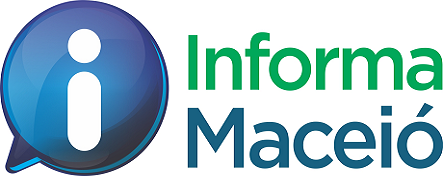
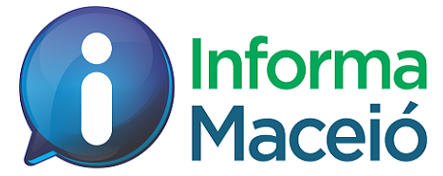
alteraçoes de dimensoes

diff --git a/servicos.html b/servicos.html
@@ -74,11 +74,11 @@
 
     <div class="box-content">
 
-        <div class="row">
+        <div class="row justify-content-center">
     
             <div class="col-3 menu-lateral">
     
-                <div class="nav flex-column nav-pills" id="v-pills-tab" role="tablist" aria-orientation="vertical">
+                <div class="nav nav-pills" id="v-pills-tab" role="tablist" aria-orientation="vertical">
     
                     <button class="nav-link" id="v-pills-planejamento-tab" data-toggle="pill" href="#v-pills-planejamento" role="tab" aria-controls="v-pills-planejamento" aria-selected="true">Planejamento Orçamentário</button>
 
@@ -2229,7 +2229,7 @@
     
                     <div class="tab-pane fade" id="v-pills-perguntas" role="tabpanel" aria-labelledby="v-pills-perguntas-tab">
                         
-                        <!-- <div class="list-group">
+                        <div class="list-group">
                             
                             <div class="list-group-item">
 
@@ -2362,7 +2362,7 @@
                             <div class="list-group-item">
                             </div>
 
-                        </div> -->
+                        </div>
 
                     </div>
     

diff --git a/public/css/style.css b/public/css/style.css
@@ -42,7 +42,7 @@ header .jumbotron {
 }
 
 .logo-maceio {
-    width: 160px;
+    width: 171px;
 }
 
 .titulo-site {
@@ -72,11 +72,15 @@ header .jumbotron {
 }
 
 .box-content {
-    width: 80%;
-    padding: 20px 0 20px 0;
+    width: 90%;
+    padding: 2% 0;
     margin-left: auto;
     margin-right: auto;
     color: #000000;
+}
+
+h3 {
+    margin-bottom: 2% !important;
 }
 
 .conteudo-geral {
@@ -171,14 +175,6 @@ header .jumbotron {
 
 .titulo-sites, .titulo-about, .titulo-talk {
     /*color: #3673ba;*/
-    color: #000000;
-}
-
-.sites-box-content {
-    width: 90%;
-    padding: 20px 0 20px 0;
-    margin-left: auto;
-    margin-right: auto;
     color: #000000;
 }
 
@@ -455,7 +451,7 @@ section .col-md-3:first-child {
 }
 
 #about-section {
-    background: url(../img/04_PontaVerde.jpg) no-repeat center top;
+    background: url(../img/PontaVerde.png) no-repeat center top;
     background-color: #7bc3d1;
     -webkit-background-size: cover;
     -moz-background-size: cover;

diff --git a/index.html b/index.html
@@ -98,7 +98,7 @@
 
             <div class='servico-box fades zoom'>
 
-                <a href="#" class="no-decor">
+                <a href="servicos.html" class="no-decor">
 
                     <div class='servico-box-icone'>
                         <img src="public/img/arq.png">
@@ -351,7 +351,7 @@
     
     <section class="section-white">
 
-        <div class="sites-box-content">
+        <div class="box-content">
 
             <h3 class="titulo-sites">Links de Acesso</h3>
 
@@ -376,7 +376,7 @@
 
                     <a href="http://www2.ouvidoria.maceio.al.gov.br/ouvidoria/faces/pages/principal.xhtml" target="_blank" class="no-decor">
                         <div class='sites-box-img'>
-                            <img src="public/img/ouvidoria.png">
+                            <img src="public/img/ouvidoria_2.png">
                         </div>
 
                         <div class='sites-box-texto'>

diff --git a/public/css/servicos.css b/public/css/servicos.css
@@ -7,6 +7,7 @@
     padding-bottom: 2%;
     display: flex;
     justify-content: center;
+    max-width: 20% !important;    
 }
 
 .menu-lateral button {
@@ -18,6 +19,10 @@
     text-align: center;
     width: 100%;
     border: 0;
+}
+
+.menu-lateral .nav {
+    width: 85%;
 }
 
 .menu-lateral .nav-pills .nav-link.active, .nav-pills .show>.nav-link {
@@ -55,7 +60,7 @@
 }
 
 #v-pills-licitacoes {
-    margin: 25%;
+    margin: 20%;
 }
 
 .ate {
